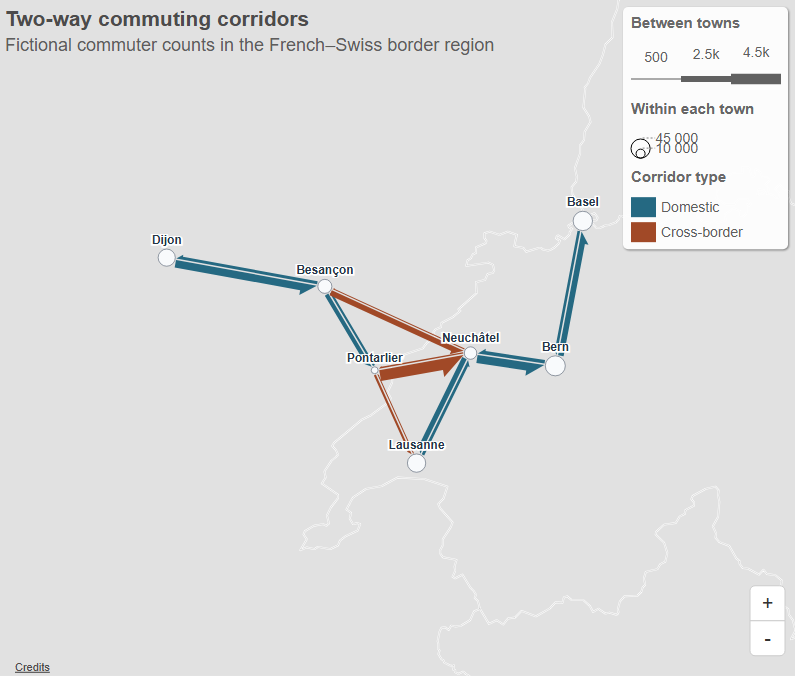
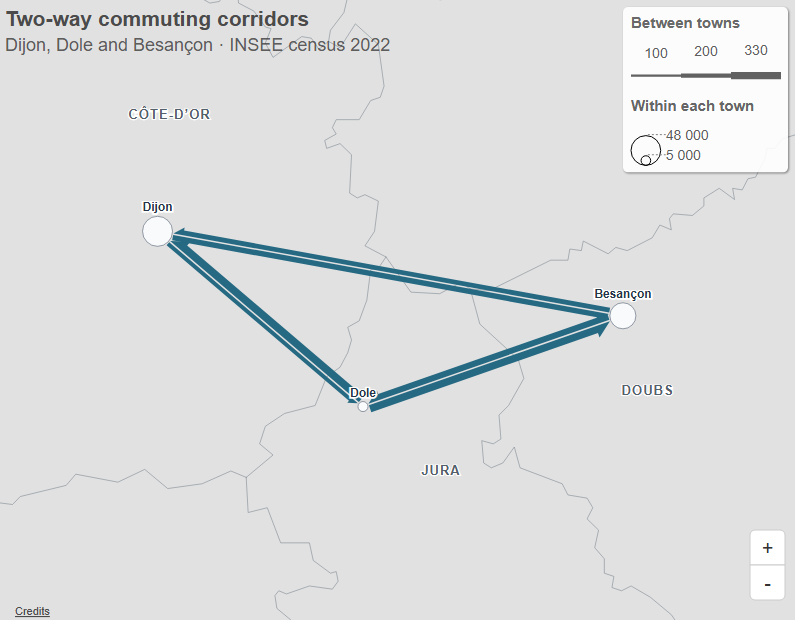
Add census years and regional context to the commuting corridor map
Refs #183

diff --git a/examples/flow/commuting-corridors.html b/examples/flow/commuting-corridors.html
@@ -5,9 +5,67 @@
         <meta name="viewport" content="width=device-width, initial-scale=1.0" />
         <title>Two-way commuting corridors</title>
         <style>
+            body {
+                font:
+                    0.9rem system-ui,
+                    sans-serif;
+                color: #253548;
+            }
+
+            .dataset-controls {
+                display: flex;
+                flex-wrap: wrap;
+                align-items: center;
+                gap: 0.5rem;
+                margin-bottom: 0.75rem;
+            }
+
+            select,
+            button {
+                font: inherit;
+                padding: 0.25rem 0.5rem;
+            }
+
+            #map .em-cntbn {
+                stroke: #52606b;
+                stroke-width: 1.5px;
+            }
+
+            #map .em-cntbn-halo:not(.em-bn-co) {
+                stroke-width: 2.6px;
+            }
+
+            #map .em-kosovo-bn {
+                stroke: #68757e;
+                stroke-width: 1px;
+            }
+
+            #map .em-bn-1,
+            #map .em-bn-2,
+            #map .em-bn-3 {
+                stroke: #77838c;
+                stroke-width: 0.55px;
+            }
+
             .em-node-circles .em-node-circle {
                 fill: #f8fafc;
                 stroke: #334155;
+            }
+
+            .region-label {
+                font:
+                    600 13px system-ui,
+                    sans-serif;
+                letter-spacing: 0.08em;
+                fill: #52606b;
+                paint-order: stroke;
+                stroke: #fff;
+                stroke-width: 2px;
+                pointer-events: none;
+            }
+
+            body.census #map .em-flow-color-legend {
+                display: none;
             }
 
             .town-label {
@@ -23,15 +81,31 @@
         </style>
     </head>
     <body>
+        <form id="dataset-form" class="dataset-controls" method="get">
+            <label for="dataset">Dataset</label>
+            <select id="dataset" name="dataset" disabled>
+                <option value="2022">INSEE census 2022</option>
+                <option value="2021">INSEE census 2021</option>
+                <option value="2020">INSEE census 2020</option>
+                <option value="fictional">Fictional French–Swiss example</option>
+            </select>
+            <button type="submit" disabled>Show data</button>
+        </form>
         <svg id="map"></svg>
-        <p>
+        <p id="fictional-note" hidden>
             The towns are real, but the commuter counts are fictional.
-            <a href="commuting-corridors-insee.html">See the example using INSEE census data</a>.
+            <a href="commuting-corridors-insee.html">See the example using INSEE census data</a>
+            .
+        </p>
+        <p id="census-note" hidden>
+            Source:
+            <a id="census-source">INSEE home-to-work flows</a>
+            . Estimates are rounded to the nearest person. Values below 200 are approximate.
         </p>
         <script src="../../build/eurostatmap.js"></script>
         <script>
             // Illustrative commuter counts. Town coordinates are real; the flows are synthetic.
-            const towns = [
+            const fictionalTowns = [
                 { id: 'DIJ', name: 'Dijon', country: 'FR', lon: 5.04, lat: 47.32, local: 36000 },
                 { id: 'BES', name: 'Besançon', country: 'FR', lon: 6.02, lat: 47.24, local: 24000 },
                 { id: 'PON', name: 'Pontarlier', country: 'FR', lon: 6.35, lat: 46.9, local: 5800 },
@@ -40,7 +114,7 @@
                 { id: 'BER', name: 'Bern', country: 'CH', lon: 7.45, lat: 46.95, local: 49000 },
                 { id: 'BAS', name: 'Basel', country: 'CH', lon: 7.59, lat: 47.56, local: 46000 },
             ]
-            const corridors = [
+            const fictionalCorridors = [
                 ['DIJ', 'BES', 3200, 1300],
                 ['BES', 'PON', 1700, 950],
                 ['BES', 'NEU', 2300, 420],
@@ -51,27 +125,137 @@
                 ['BER', 'BAS', 2400, 1100],
             ]
 
-            const map = eurostatmap.map('flow').nutsLevel(0).insets(false).scale('03M')
-            const [x, y] = eurostatmap.projectToMap(map, 6.48, 47.04)
+            const communes = [
+                { id: '21231', name: 'Dijon', country: 'FR', lon: 5.04, lat: 47.32 },
+                { id: '39198', name: 'Dole', country: 'FR', lon: 5.49, lat: 47.09 },
+                { id: '25056', name: 'Besançon', country: 'FR', lon: 6.02, lat: 47.24 },
+            ]
+            // INSEE NBFLUX_Cxx_ACTOCC15P. Rows are residence and columns are workplace,
+            // both in Dijon, Dole, Besançon order. Diagonal values size the circles.
+            const census = {
+                2020: {
+                    source: '7630376',
+                    flows: [
+                        [45808, 148, 204],
+                        [342, 5183, 311],
+                        [220, 255, 34858],
+                    ],
+                },
+                2021: {
+                    source: '8201899',
+                    flows: [
+                        [47566, 182, 211],
+                        [357, 5401, 311],
+                        [207, 298, 36027],
+                    ],
+                },
+                2022: {
+                    source: '8582949',
+                    flows: [
+                        [48880, 180, 242],
+                        [340, 5485, 325],
+                        [215, 268, 36825],
+                    ],
+                },
+            }
 
+            const form = document.querySelector('#dataset-form')
+            const picker = document.querySelector('#dataset')
+            const requested = new URLSearchParams(location.search).get('dataset')
+            const dataset = requested === 'fictional' || Object.hasOwn(census, requested) ? requested : '2022'
+            const fictional = dataset === 'fictional'
+            picker.value = dataset
+            let navigating = false
+            function showDataset() {
+                if (navigating || picker.value === dataset) return
+                const url = new URL(location.href)
+                url.searchParams.set('dataset', picker.value)
+                navigating = true
+                location.assign(url.href)
+            }
+            picker.addEventListener('input', showDataset)
+            picker.addEventListener('change', showDataset)
+            window.addEventListener('pageshow', (event) => {
+                if (event.persisted) {
+                    navigating = false
+                    picker.value = dataset
+                }
+            })
+            picker.disabled = false
+            form.querySelector('button').disabled = false
+
+            if (fictional) {
+                document.querySelector('#fictional-note').hidden = false
+            } else {
+                document.body.classList.add('census')
+                document.querySelector('#census-note').hidden = false
+                const source = document.querySelector('#census-source')
+                source.href = `https://www.insee.fr/fr/statistiques/${census[dataset].source}`
+                source.textContent = `INSEE ${dataset} census, home-to-work flows`
+            }
+
+            const map = eurostatmap.map('flow').width(795).height(620).responsive(true).nutsLevel(3).insets(false).scale('03M')
+            const [x, y] = eurostatmap.projectToMap(map, ...(fictional ? [6.48, 47.04] : [5.55, 47.23]))
+
+            const towns = fictional ? fictionalTowns : communes
             const nodes = towns.map(({ id, name, country, lon, lat }) => {
                 const [x, y] = eurostatmap.projectToMap(map, lon, lat)
                 return { id, name, country, x, y }
             })
-            const links = corridors.flatMap(([a, b, forward, reverse]) => [
-                { source: a, target: b, value: forward },
-                { source: b, target: a, value: reverse },
-            ])
-            for (const { id, local } of towns) {
-                links.push({ source: id, target: id, value: local })
-            }
+            const links = fictional
+                ? [
+                      ...fictionalCorridors.flatMap(([a, b, forward, reverse]) => [
+                          { source: a, target: b, value: forward },
+                          { source: b, target: a, value: reverse },
+                      ]),
+                      ...fictionalTowns.map(({ id, local }) => ({ source: id, target: id, value: local })),
+                  ]
+                : census[dataset].flows.flatMap((row, i) => row.map((value, j) => ({ source: communes[i].id, target: communes[j].id, value })))
 
             const domestic = '#256982'
             const crossBorder = '#a14927'
 
+            // Use a common width and area scale across all three census years.
+            const largestFlow = Math.max(...links.filter(({ source, target }) => source !== target).map(({ value }) => value))
+            const flowValues = fictional ? [500, 2500, largestFlow] : [100, 200, 330]
+            const largestLocalFlow = fictional ? 49000 : 48880
+            const nodeSizeScale = (value) => 15 * Math.sqrt(value / largestLocalFlow)
+            nodeSizeScale.domain = () => [0, largestLocalFlow]
+            const counts = new Intl.NumberFormat('en')
+            const regions = fictional
+                ? [
+                      ['BOURGOGNE-FRANCHE-COMTÉ', 5.68, 47.63],
+                      ['SWITZERLAND', 7.46, 46.58],
+                  ]
+                : [
+                      ['CÔTE-D’OR', 5.05, 47.48],
+                      ['JURA', 5.66, 47.0],
+                      ['DOUBS', 6.08, 47.13],
+                  ]
+
+            function avoidLabelCollisions() {
+                const svg = map.svg().node()
+                const frame = svg.getBoundingClientRect()
+                const occupied = [...svg.querySelectorAll('.em-legend, [id^="title"], [id^="subtitle"]')]
+                    .map((element) => element.getBoundingClientRect())
+                    .filter(({ width, height }) => width && height)
+                const labels = [...svg.querySelectorAll('.town-label'), ...svg.querySelectorAll('.region-label')]
+                for (const label of labels) {
+                    const box = label.getBoundingClientRect()
+                    const outside = box.left < frame.left || box.right > frame.right || box.top < frame.top || box.bottom > frame.bottom
+                    const overlaps = occupied.some(
+                        (other) => box.left < other.right && box.right > other.left && box.top < other.bottom && box.bottom > other.top
+                    )
+                    label.style.visibility = outside || overlaps ? 'hidden' : 'visible'
+                    if (!outside && !overlaps) occupied.push(box)
+                }
+            }
+
             map.title('Two-way commuting corridors')
-                .subtitle('Fictional commuter counts in the French–Swiss border region')
-                .position({ x, y, z: 465 })
+                .subtitle(
+                    fictional ? 'Fictional commuter counts in the French–Swiss border region' : `Dijon, Dole and Besançon · INSEE census ${dataset}`
+                )
+                .position({ x, y, z: fictional ? 465 : 158 })
                 .drawCoastalMargin(false)
                 .flowGraph({ nodes, links })
                 .flowSettings({
@@ -80,15 +264,21 @@
                     arrows: true,
                     color: ({ source, target }) => (source.country === target.country ? domestic : crossBorder),
                     opacity: 1,
-                    maxWidth: 11,
+                    maxWidth: fictional ? 11 : (8 * largestFlow) / 357,
                     nodes: true,
                     nodeType: 'circle',
                     nodeSizeBy: 'internal',
+                    nodeSizeScale,
                 })
                 .legend({
                     position: 'top right',
-                    flowWidthLegend: { title: 'Between towns', titlePadding: 40, values: [500, 2500, 4500] },
-                    nodeSizeLegend: { title: 'Within each town', values: [45000, 10000] },
+                    flowWidthLegend: {
+                        title: 'Between towns',
+                        titlePadding: 40,
+                        values: flowValues,
+                        labels: flowValues.map((value) => counts.format(value)),
+                    },
+                    nodeSizeLegend: { title: 'Within each town', values: [48000, 5000] },
                     flowColorLegend: {
                         title: 'Corridor type',
                         marginTop: 30,
@@ -98,7 +288,19 @@
                         ],
                     },
                 })
+                .onZoom(avoidLabelCollisions)
                 .onBuild((map) => {
+                    map.svg()
+                        .select('#em-zoom-group-map')
+                        .append('g')
+                        .selectAll('text')
+                        .data(regions)
+                        .join('text')
+                        .attr('class', 'region-label')
+                        .attr('text-anchor', 'middle')
+                        .attr('transform', ([, lon, lat]) => `translate(${map._projection(eurostatmap.projectToMap(map, lon, lat))})`)
+                        .text(([name]) => name)
+
                     const townNames = new Map(nodes.map(({ id, name }) => [id, name]))
                     map.svg()
                         .selectAll('.em-node-circle-group')
@@ -111,6 +313,7 @@
                         .text(function () {
                             return townNames.get(this.parentNode.getAttribute('data-id'))
                         })
+                    avoidLabelCollisions()
                 })
 
             map.statData().unitText('commuters')

diff --git a/AGENTS.md b/AGENTS.md
@@ -127,6 +127,8 @@ the regions that end up with a classified/sized value from whatever data was jus
 - Flow rendering writes projected coordinates into graph nodes. On redraw, project from the original
   coordinates rather than reprojecting the previous screen positions. In parallel layouts, use the
   same rendered circle radii for connector clearance and for the node symbols.
+- A custom flow `nodeSizeScale` used with a size legend needs a `domain()` method, including when
+  the example supplies explicit legend values.
 - `stat()` and `statData()` remain map-owned to avoid map-to-layer forwarding recursion. A layer
   that needs to expand a special one-object stat config (spark's `dates`, for example) must expose
   an own `handleStatConfig` hook; do not override `layer.stat()` and expect the public map facade
